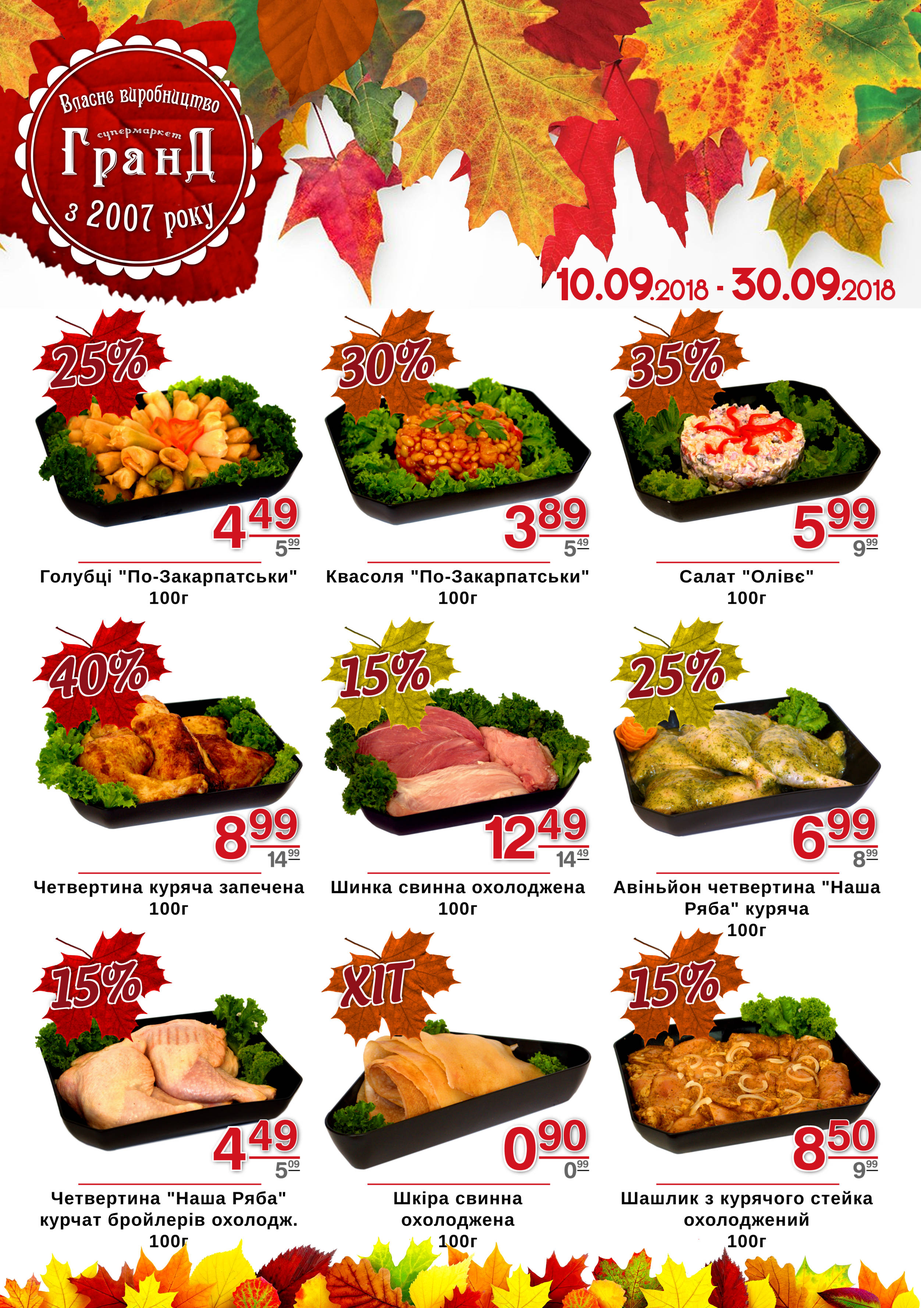
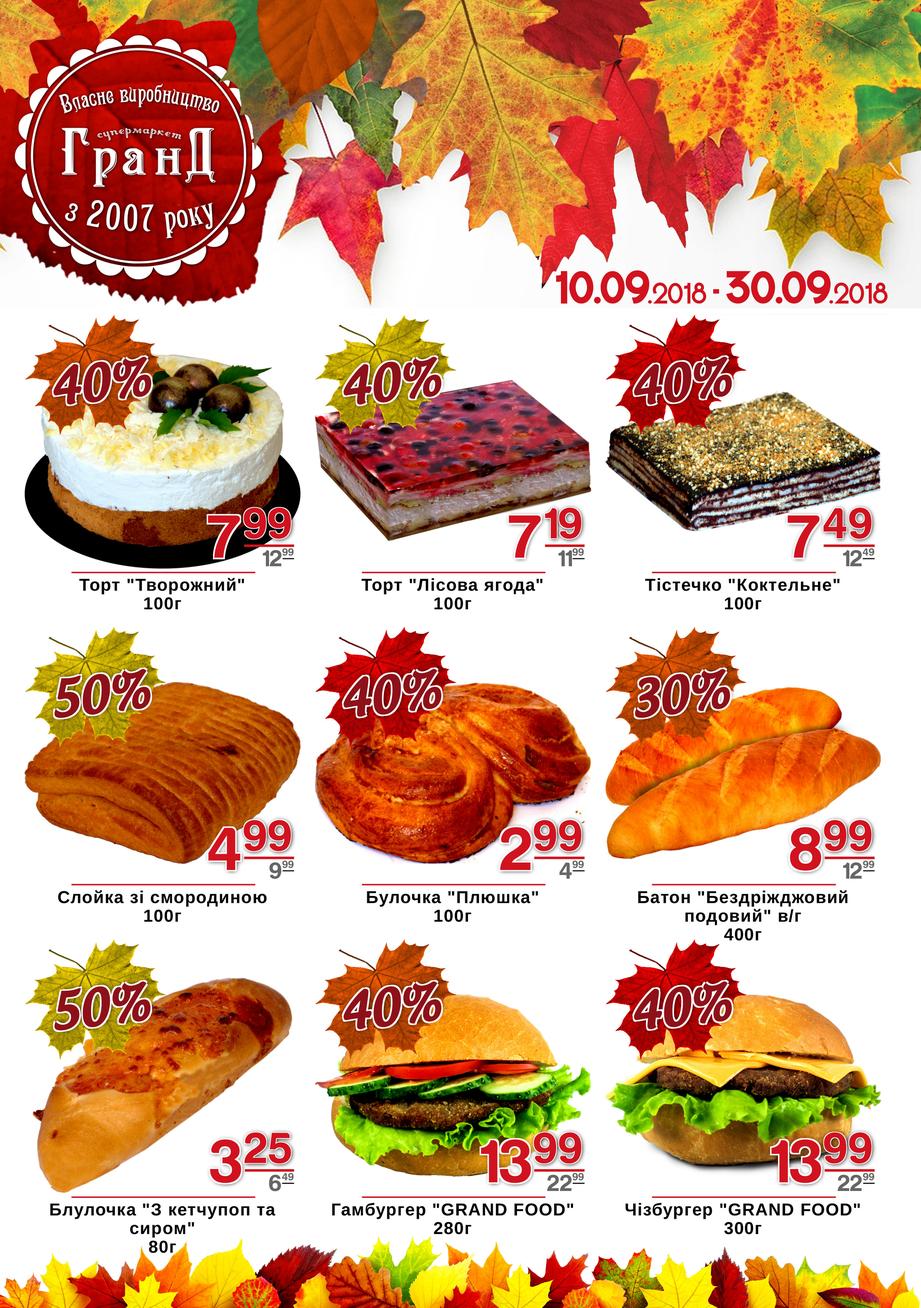
fix  buklet (last)

diff --git a/grand/buklet/base4.js b/grand/buklet/base4.js
@@ -2,85 +2,87 @@ let dataVid='10.09'
 let dataDo = '30.09';
 let base = [
     {
-        color: "leaf",
-        size: "1",
-        pic: "1",
-        desc: 'Голубці "По-Закарпатськи"$100г',                               	
-        priceO: "599",	
-        priceN: "449",	
-        disc: "25%"
-    }
-    ,{
         color: "leaf2",
         size: "1",
-        pic: "2",
-        desc: 'Квасоля "По-Закарпатськи"$100г',                                	
-        priceO: "549",	
-        priceN: "389",	
-        disc: "30%"
-    }
-    ,{
-        color: "leaf2",
-        size: "1",
-        pic: "4",
-        desc: 'Салат "Олівє"$100г',                               	
-        priceO: "999",	
-        priceN: "599",	
-        disc: "35%"
-    }
-    ,{
-        color: "leaf",
-        size: "1",
-        pic: "3",
-        desc: 'Четвертина куряча запечена$100г',                              	
-        priceO: "1499",	
-        priceN: "899",	
+        pic: "46",
+        desc: 'Торт "Творожний"$100г',	
+        priceO: "1299",	
+        priceN: "799",	
         disc: "40%"
     }
     ,{
         color: "leaf3",
         size: "1",
-        pic: "6",
-        desc: 'Шинка свинна охолоджена$100г',                                	
-        priceO: "1449",	
-        priceN: "1249",	
-        disc: "15%"
-    }
-    ,{
-        color: "leaf3",
-        size: "1",
-        pic: "9",
-        desc: 'Авіньйон четвертина "Наша Ряба" куряча$100г',                  	
-        priceO: "899",	
-        priceN: "699",	
-        disc: "25%"
+        pic: "17",
+        desc: 'Торт "Лісова ягода"$100г',	
+        priceO: "1199",	
+        priceN: "719",	
+        disc: "40%"
     }
     ,{
         color: "leaf",
         size: "1",
-        pic: "5",
-        desc: 'Четвертина "Наша Ряба"$курчат бройлерів охолодж.$100г',      	
-        priceO: "509",	
-        priceN: "449",	
-        disc: "15%"
+        pic: "47",
+        desc: 'Тістечко "Коктельне"$100г',	
+        priceO: "1249",	
+        priceN: "749",	
+        disc: "40%"
     }
+
     ,{
-        color: "leaf2",
-        size: "6",
-        pic: "8",
-        desc: 'Шкіра свинна$охолоджена$100г',                                 	
-        priceO: "099",	
-        priceN: "090",	
-        disc: "XIT"
-    }
-    ,{
-        color: "leaf2",
-        size: "",
-        pic: "7",
-        desc: 'Шашлик з курячого стейка$охолоджений$100г',	
+        color: "leaf3",
+        size: "1",
+        pic: "16",
+        desc: 'Слойка зі смородиною$100г',	
         priceO: "999",	
-        priceN: "850",	
-        disc: "15%"
+        priceN: "499",	
+        disc: "50%"
+    }
+    ,{
+        color: "leaf",
+        size: "1",
+        pic: "24",
+        desc: 'Булочка "Плюшка"$100г',	
+        priceO: "499",	
+        priceN: "299",	
+        disc: "40%"
+    }
+    ,{
+        color: "leaf2",
+        size: "1",
+        pic: "30",
+        desc: 'Батон "Бездріжджовий подовий" в/г$400г',	
+        priceO: "1299",	
+        priceN: "899",	
+        disc: "30%"
+    }
+
+    ,{
+        color: "leaf3",
+        size: "1",
+        pic: "15",
+        desc: 'Блулочка "З кетчупоп та сиром"$80г',	
+        priceO: "649",	
+        priceN: "325",	
+        disc: "50%"
+    }
+    ,{
+        color: "leaf2",
+        size: "1",
+        pic: "49",
+        desc: 'Гамбургер "GRAND FOOD"$280г',                                 	
+        priceO: "2299",	
+        priceN: "1399",	
+        disc: "40%"
+    }
+    ,{
+        color: "leaf",
+        size: "1",
+        pic: "48",
+        desc: 'Чізбургер "GRAND FOOD"$300г',                                 	
+        priceO: "2299",	
+        priceN: "1399",	
+        disc: "40%"
     }
     ,
     {
@@ -352,94 +354,99 @@ let base = [
     priceO: "1499",	
     priceN: "1199",	
     disc: "20%"
-}
-,
+},
+
+
 {
     color: "leaf2",
     size: "1",
-    pic: "46",
-    desc: 'Торт "Творожний"$100г',	
-    priceO: "1299",	
-    priceN: "799",	
-    disc: "40%"
-}
-,{
-    color: "leaf3",
-    size: "1",
-    pic: "17",
-    desc: 'Торт "Лісова ягода"$100г',	
-    priceO: "1199",	
-    priceN: "719",	
-    disc: "40%"
-}
-,{
-    color: "leaf",
-    size: "1",
-    pic: "47",
-    desc: 'Тістечко "Коктельне"$100г',	
-    priceO: "1249",	
-    priceN: "749",	
-    disc: "40%"
-}
-,{
-    color: "leaf3",
-    size: "1",
-    pic: "15",
-    desc: 'Блулочка "З кетчупоп та сиром"$80г',	
-    priceO: "649",	
-    priceN: "325",	
-    disc: "50%"
-}
-,{
-    color: "leaf",
-    size: "1",
-    pic: "24",
-    desc: 'Булочка "Плюшка"$100г',	
-    priceO: "499",	
-    priceN: "299",	
-    disc: "40%"
-}
-,{
-    color: "leaf2",
-    size: "1",
-    pic: "30",
-    desc: 'Батон "Бездріжджовий подовий" в/г$400г',	
-    priceO: "1299",	
-    priceN: "899",	
-    disc: "30%"
-}
-,{
-    color: "leaf3",
-    size: "1",
-    pic: "16",
-    desc: 'Слойка зі смородиною$100г',	
+    pic: "4",
+    desc: 'Салат "Олівє"$100г',                               	
     priceO: "999",	
-    priceN: "499",	
-    disc: "50%"
+    priceN: "599",	
+    disc: "35%"
+}
+,{
+    color: "leaf3",
+    size: "1",
+    pic: "2",
+    desc: 'Квасоля "По-Закарпатськи"$100г',                                	
+    priceO: "549",	
+    priceN: "389",	
+    disc: "30%"
+},
+{
+    color: "leaf",
+    size: "1",
+    pic: "1",
+    desc: 'Голубці "По-Закарпатськи"$100г',                               	
+    priceO: "599",	
+    priceN: "449",	
+    disc: "25%"
+}
+
+,{
+    color: "leaf3",
+    size: "1",
+    pic: "6",
+    desc: 'Шинка свинна охолоджена$100г',                                	
+    priceO: "1449",	
+    priceN: "1249",	
+    disc: "15%"
 }
 ,{
     color: "leaf2",
+    size: "",
+    pic: "7",
+    desc: 'Шашлик з курячого стейка$охолоджений$100г',	
+    priceO: "999",	
+    priceN: "850",	
+    disc: "15%"
+}
+,{
+    color: "leaf2",
+    size: "6",
+    pic: "8",
+    desc: 'Шкіра свинна$охолоджена$100г',                                 	
+    priceO: "099",	
+    priceN: "090",	
+    disc: "XIT"
+}
+
+,{
+    color: "leaf",
     size: "1",
-    pic: "49",
-    desc: 'Гамбургер "GRAND FOOD"$280г',                                 	
-    priceO: "2299",	
-    priceN: "1399",	
+    pic: "3",
+    desc: 'Четвертина куряча запечена$100г',                              	
+    priceO: "1499",	
+    priceN: "899",	
     disc: "40%"
+}
+,{
+    color: "leaf3",
+    size: "1",
+    pic: "9",
+    desc: 'Авіньйон четвертина "Наша Ряба" куряча$100г',                  	
+    priceO: "899",	
+    priceN: "699",	
+    disc: "25%"
 }
 ,{
     color: "leaf",
     size: "1",
-    pic: "48",
-    desc: 'Чізбургер "GRAND FOOD"$300г',                                 	
-    priceO: "2299",	
-    priceN: "1399",	
-    disc: "40%"
+    pic: "5",
+    desc: 'Четвертина "Наша Ряба"$курчат бройлерів охолодж.$100г',      	
+    priceO: "509",	
+    priceN: "449",	
+    disc: "15%"
 }
-,{
+
+,
+{
     color: "leaf4",
     size: "3",
     pic: "10",
-    desc: 'Багет з шашликом"$300г',                                 	
+    desc: 'Багет з шашликом"$230г',                                 	
     priceO: "",	
     priceN: "1599",	
     disc: ""

diff --git a/grand/buklet/index.html b/grand/buklet/index.html
@@ -20,7 +20,7 @@
         <p class='toBottom'>В КІНЕЦЬ &#8659</p>
     </div>
     
-    <div class="shirma"></div>    
+    <div class="shirma"></div>
     
     <div class="wrapper__gl">
             
